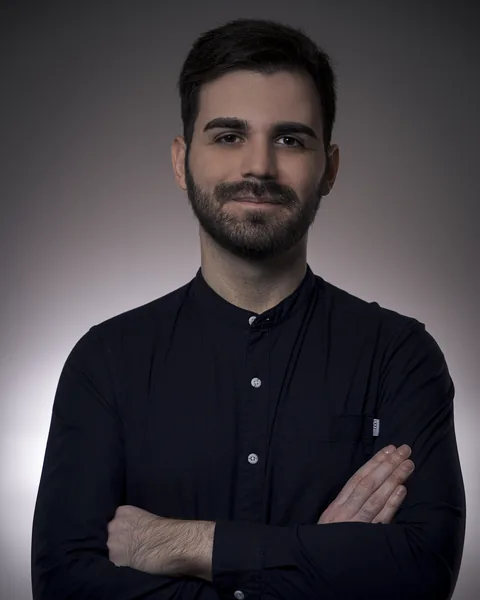
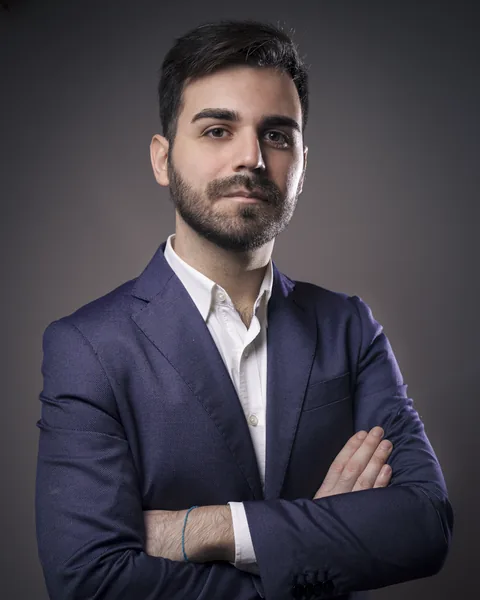
Nuova foto di Giuseppe nella sezione Chi sono
Claude-Session: https://claude.ai/code/session_01PjQS3UnZxMZnTJtuX1eaJ6

diff --git a/index.html b/index.html
@@ -434,7 +434,7 @@
     <div class="wrap about">
       <figure class="me-card">
         <div class="me-photo">
-          <img src="assets/img/giuseppe-romano-900.webp" srcset="assets/img/giuseppe-romano-480.webp 480w, assets/img/giuseppe-romano-900.webp 900w" sizes="(max-width: 880px) 92vw, 420px" alt="Giuseppe Romano, consulente Amazon e fondatore di Callforus" width="900" height="1125" loading="lazy" decoding="async">
+          <img src="assets/img/giuseppe-romano-900.webp?v=2" srcset="assets/img/giuseppe-romano-480.webp?v=2 480w, assets/img/giuseppe-romano-900.webp?v=2 900w" sizes="(max-width: 880px) 92vw, 420px" alt="Giuseppe Romano, consulente Amazon e fondatore di Callforus" width="900" height="1125" loading="lazy" decoding="async">
           <span class="me-badge"><img src="assets/img/simbolo.webp" alt="" width="40" height="31" loading="lazy">Amazon Account Manager</span>
         </div>
         <figcaption class="me-id"><strong>Giuseppe Romano</strong><span>Fondatore di Callforus</span></figcaption>
